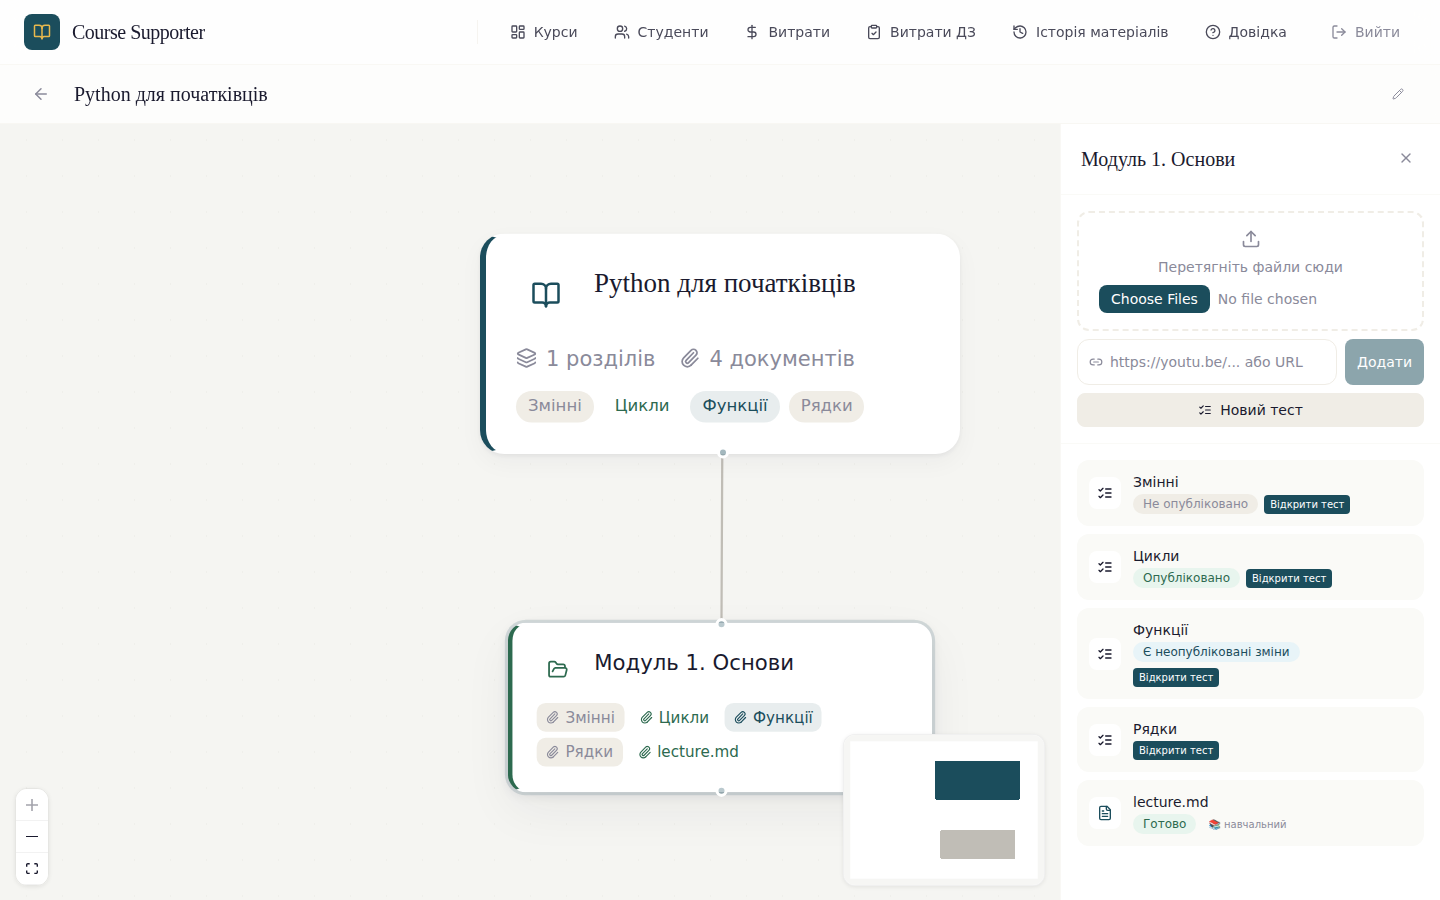
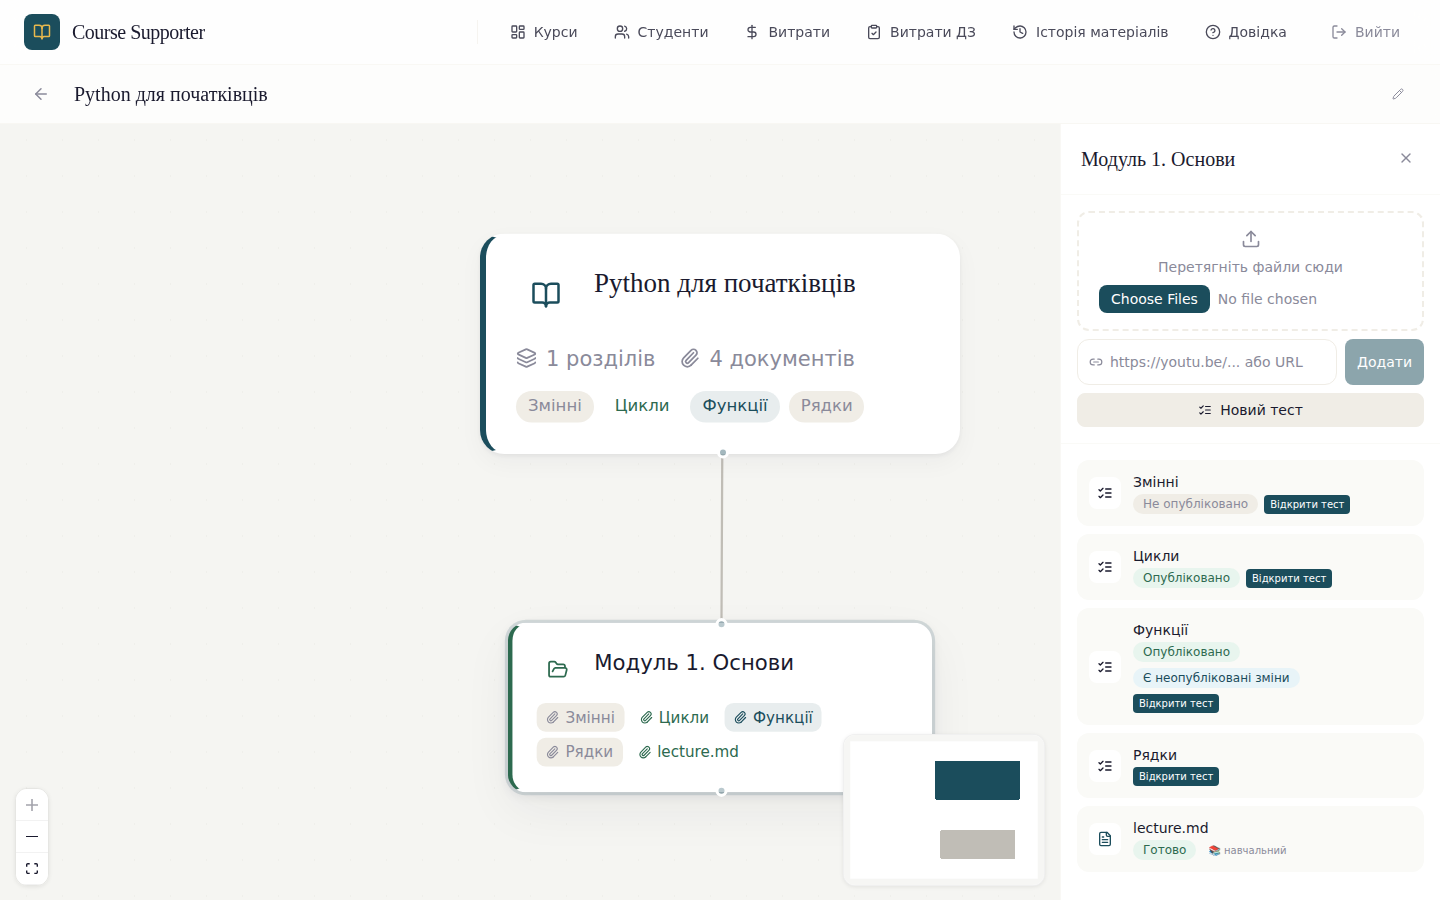
task(Б2): lower-case a test's state in the pill hint; show changed as two chips in the panel
Operator's decisions on the report of task Б2.

utils/stateVocabulary.ts: pillHint composes a canvas pill's hint,
«{name} — {state}», for both cards. A test's state is lower-cased there,
after the dash («Змінні — не опубліковано»); the words in editorTexts.ts
and on the chips keep their capital, and a material's phase word is kept
as it was («lecture.md — Готово»). testStateChips gives the node panel
the editor's chips in its order: changed is two, «Опубліковано» (forest)
and «Є неопубліковані зміни» (navy), as EditorToolbar shows it; the
canvas pill stays one.

CourseRootNode, SectionNode: the hint through pillHint.
NodeDetailPanel: every chip testStateChips gives, beside the test's name.

Tests: the lower-cased hints on both cards, a material's hint unchanged;
the panel's chips per state, in order, with their tones and hints;
pillHint and testStateChips as units. Mutation, over the full suite,
restored by sha256: one chip for changed in the panel -> the panel's
changed case and the chips' unit (2 tests).

docs-screens/tree-test-state/panel.png: retaken with the two chips.

Claude-Session: https://claude.ai/code/session_01QoixipEQgc4obxDnkxyH6V

Changed region(s): [[0.75, 0.7156, 0.9062, 0.9644]]

diff --git a/src/components/flow/NodeDetailPanel.test.tsx b/src/components/flow/NodeDetailPanel.test.tsx
@@ -323,27 +323,38 @@ describe('NodeDetailPanel — a test written in the system (task 07c)', () => {
     expect(navigateMock).toHaveBeenCalledWith('/test/test-1/edit')
   })
 
-  // Task Б2: beside the name, the editor's own chip for whether students see
-  // the test; nothing when the tree does not say.
+  // Task Б2: beside the name, the editor's own chips for whether students see
+  // the test, as its toolbar shows them — ``changed`` is two; capitalised as
+  // the editor writes them.
+  const EDITOR_WORDS = ['Не опубліковано', 'Опубліковано', 'Є неопубліковані зміни']
   it.each([
-    ['draft', 'Не опубліковано', 'bg-canvas-dark', undefined],
-    ['published', 'Опубліковано', 'bg-forest-pale', 'Студенти бачать цю версію тесту'],
+    ['draft', [['Не опубліковано', 'bg-canvas-dark', undefined]]],
+    ['published', [['Опубліковано', 'bg-forest-pale', 'Студенти бачать цю версію тесту']]],
     [
       'changed',
-      'Є неопубліковані зміни',
-      'bg-navy-pale',
-      'Чернетка відрізняється від версії, яку бачать студенти',
+      [
+        ['Опубліковано', 'bg-forest-pale', 'Студенти бачать цю версію тесту'],
+        [
+          'Є неопубліковані зміни',
+          'bg-navy-pale',
+          'Чернетка відрізняється від версії, яку бачать студенти',
+        ],
+      ],
     ],
-  ] as const)('shows a %s test as «%s» beside its name', (state, label, tone, hint) => {
+  ] as const)('shows a %s test with the editor\'s chips beside its name', (state, chips) => {
     seed(makeNode({ authored_documents: [makeTest({ test_state: state })] }))
     render(<NodeDetailPanel onOpenSummary={vi.fn()} />)
 
-    const chip = within(rowOf('Змінні')).getByText(label)
-    expect(chip).toHaveClass(tone)
-    if (hint === undefined) expect(chip).not.toHaveAttribute('title')
-    else expect(chip).toHaveAttribute('title', hint)
-    for (const other of ['Не опубліковано', 'Опубліковано', 'Є неопубліковані зміни']) {
-      if (other !== label) expect(within(rowOf('Змінні')).queryByText(other)).toBeNull()
+    const row = rowOf('Змінні')
+    const shown = within(row)
+      .queryAllByText((_, el) => EDITOR_WORDS.includes(el?.textContent ?? '') && el?.tagName === 'SPAN')
+      .map((el) => el.textContent)
+    expect(shown).toEqual(chips.map(([label]) => label))
+    for (const [label, tone, hint] of chips) {
+      const chip = within(row).getByText(label)
+      expect(chip).toHaveClass(tone)
+      if (hint === undefined) expect(chip).not.toHaveAttribute('title')
+      else expect(chip).toHaveAttribute('title', hint)
     }
   })
 

diff --git a/src/components/flow/NodeDetailPanel.tsx b/src/components/flow/NodeDetailPanel.tsx
@@ -6,7 +6,7 @@ import { documentsApi } from '../../api/documents'
 import { nodesApi } from '../../api/nodes'
 import { StatusBadge } from '../ui/StatusBadge'
 import { Chip } from '../testEditor/Chip'
-import { testStateVocab } from '../../utils/stateVocabulary'
+import { testStateChips } from '../../utils/stateVocabulary'
 import { MaterialProgressDetail } from './MaterialProgressDetail'
 import { UploadProgressView } from '../activity/UploadProgressView'
 import { UploadFailuresView } from '../activity/UploadFailuresView'
@@ -474,9 +474,10 @@ export function NodeDetailPanel({ onOpenSummary }: NodeDetailPanelProps = {}) {
             // A test is written, never processed: no phase to show, nothing
             // to reprocess, and its role is fixed (decisions 13 and 19).
             const isTest = mat.source_type === 'test_object'
-            // Б2: whether students see it — the editor's own chip; nothing
-            // when the tree does not say (an older backend, an unread state).
-            const testState = isTest ? testStateVocab(mat.test_state) : null
+            // Б2: whether students see it — the editor's own chips, as its
+            // toolbar shows them (``changed`` is two); none when the tree does
+            // not say (an older backend, an unread state).
+            const testChips = isTest ? testStateChips(mat.test_state) : []
             // Д1: the live job of THIS material from the shared store (anchor =
             // material_id). Its movement/duration is the same the strip shows.
             const liveJob = workItems.find(
@@ -501,11 +502,11 @@ export function NodeDetailPanel({ onOpenSummary }: NodeDetailPanelProps = {}) {
                       control drop to the next line instead of clipping. */}
                   <div className="flex flex-wrap items-center gap-1.5 mt-0.5">
                     {!isTest && <StatusBadge phase={mat.processing_phase} />}
-                    {testState && (
-                      <Chip tone={testState.chipTone} title={testState.hint}>
-                        {testState.label}
+                    {testChips.map((chip) => (
+                      <Chip key={chip.label} tone={chip.chipTone} title={chip.hint}>
+                        {chip.label}
                       </Chip>
-                    )}
+                    ))}
                     {!isTest && (
                       <button
                         onClick={() => handleToggleRole(mat)}

diff --git a/src/utils/stateVocabulary.ts b/src/utils/stateVocabulary.ts
@@ -93,6 +93,20 @@ export function testStateVocab(state: TestState | null | undefined): TestStateVo
   return (state && TEST_STATE_VOCAB[state]) || null
 }
 
+// The node panel shows a test's state as the editor's toolbar does: ``changed``
+// is two chips there — «Опубліковано» and «Є неопубліковані зміни» beside it —
+// so it is two in the panel too. The canvas pill has room for one (above).
+const TEST_STATE_CHIPS: Record<TestState, TestStateVocabEntry[]> = {
+  draft: [TEST_STATE_VOCAB.draft],
+  published: [TEST_STATE_VOCAB.published],
+  changed: [TEST_STATE_VOCAB.published, TEST_STATE_VOCAB.changed],
+}
+
+/** The editor's chips for a test's state, in its order; none when the tree does not say. */
+export function testStateChips(state: TestState | null | undefined): TestStateVocabEntry[] {
+  return (state && TEST_STATE_CHIPS[state]) || []
+}
+
 /** A canvas pill's word and tone: a test's publication state, any other material's phase. */
 export function pillVocab(document: {
   source_type: string
@@ -187,4 +201,23 @@ const JOB_STATE_WORD_TONE: Record<JobState, string> = {
 /** Work-state word classes (strip rows) — colour/motion on the word, never a chip. */
 export function jobStateWordClass(state: JobState): string {
   return JOB_STATE_WORD_TONE[state]
+}
+
+/**
+ * A canvas pill's hint: «{name} — {state}». A test's state is the editor's
+ * word, which stands capitalised on its own chip; after the dash it continues
+ * the sentence, so it is lower-cased here — the word in ``editorTexts`` stays
+ * as it is («Змінні — не опубліковано»). A material's phase word is kept as it
+ * was.
+ */
+export function pillHint(
+  document: { source_type: string },
+  name: string,
+  entry: PhaseVocabEntry,
+): string {
+  const state =
+    document.source_type === 'test_object'
+      ? entry.label.charAt(0).toLocaleLowerCase('uk') + entry.label.slice(1)
+      : entry.label
+  return `${name} — ${state}`
 }

diff --git a/src/components/flow/nodes/CourseRootNode.test.tsx b/src/components/flow/nodes/CourseRootNode.test.tsx
@@ -90,15 +90,34 @@ describe('CourseRootNode — a test\'s publication state', () => {
   }
 
   it.each([
-    ['draft', 'Змінні — Не опубліковано', ['bg-canvas-dark', 'text-ink-muted']],
-    ['published', 'Змінні — Опубліковано', ['text-forest']],
-    ['changed', 'Змінні — Є неопубліковані зміни', ['text-navy']],
+    ['draft', 'Змінні — не опубліковано', ['bg-canvas-dark', 'text-ink-muted']],
+    ['published', 'Змінні — опубліковано', ['text-forest']],
+    ['changed', 'Змінні — є неопубліковані зміни', ['text-navy']],
     [null, 'Змінні — тест', ['bg-canvas-dark', 'text-ink-muted']],
   ] as const)('marks a %s test: %s', (state, hint, classes) => {
     card({ authored_documents: [test(state)] })
     const pill = screen.getByText('Змінні')
     expect(pill).toHaveAttribute('title', hint)
     expect(pill).toHaveClass(...classes)
+  })
+
+  it('lower-cases the editor\'s word after the dash, and only a test\'s', () => {
+    const lecture: AuthoredDocumentSummary = {
+      ...test(),
+      id: 'doc-1',
+      source_type: 'text',
+      task_type: null,
+      title: null,
+      filename: 'lecture.md',
+      source_url: 's3://bucket/lecture.md',
+    }
+    card({ authored_documents: [test('changed'), lecture] })
+    expect(screen.getByText('Змінні')).toHaveAttribute(
+      'title',
+      'Змінні — є неопубліковані зміни',
+    )
+    // A material's phase word keeps its capital, as before.
+    expect(screen.getByText('lecture.md')).toHaveAttribute('title', 'lecture.md — Готово')
   })
 
   it('keeps the neutral pill when an older backend sends no test_state', () => {

diff --git a/src/components/flow/nodes/SectionNode.test.tsx b/src/components/flow/nodes/SectionNode.test.tsx
@@ -90,15 +90,34 @@ describe('SectionNode — a test\'s publication state', () => {
   }
 
   it.each([
-    ['draft', 'Змінні — Не опубліковано', ['bg-canvas-dark', 'text-ink-muted']],
-    ['published', 'Змінні — Опубліковано', ['text-forest']],
-    ['changed', 'Змінні — Є неопубліковані зміни', ['text-navy']],
+    ['draft', 'Змінні — не опубліковано', ['bg-canvas-dark', 'text-ink-muted']],
+    ['published', 'Змінні — опубліковано', ['text-forest']],
+    ['changed', 'Змінні — є неопубліковані зміни', ['text-navy']],
     [null, 'Змінні — тест', ['bg-canvas-dark', 'text-ink-muted']],
   ] as const)('marks a %s test: %s', (state, hint, classes) => {
     card({ authored_documents: [test(state)] })
     const pill = screen.getByText('Змінні')
     expect(pill).toHaveAttribute('title', hint)
     expect(pill).toHaveClass(...classes)
+  })
+
+  it('lower-cases the editor\'s word after the dash, and only a test\'s', () => {
+    const lecture: AuthoredDocumentSummary = {
+      ...test(),
+      id: 'doc-1',
+      source_type: 'text',
+      task_type: null,
+      title: null,
+      filename: 'lecture.md',
+      source_url: 's3://bucket/lecture.md',
+    }
+    card({ authored_documents: [test('changed'), lecture] })
+    expect(screen.getByText('Змінні')).toHaveAttribute(
+      'title',
+      'Змінні — є неопубліковані зміни',
+    )
+    // A material's phase word keeps its capital, as before.
+    expect(screen.getByText('lecture.md')).toHaveAttribute('title', 'lecture.md — Готово')
   })
 
   it('keeps the neutral pill when an older backend sends no test_state', () => {

diff --git a/src/utils/stateVocabulary.test.ts b/src/utils/stateVocabulary.test.ts
@@ -11,6 +11,8 @@ import {
   phasePillClass,
   jobStateWordClass,
   TEST_STATE_VOCAB,
+  pillHint,
+  testStateChips,
 } from './stateVocabulary'
 
 // Second witness for totality (mirrors the backend ``_JOB_STATE_BY_STATUS``
@@ -120,6 +122,36 @@ describe('pillVocab — a canvas pill', () => {
     expect(pillVocab({ source_type: 'text', processing_phase: 'ready' })).toBe(
       PHASE_VOCAB.ready,
     )
+  })
+})
+
+describe('a test in the tree — hint and panel chips (task Б2)', () => {
+  it('lower-cases a test state after the dash, leaving the editor\'s word as it is', () => {
+    const test = { source_type: 'test_object' }
+    expect(pillHint(test, 'Змінні', { label: TEXTS.notPublished, tone: 'muted', pulse: false })).toBe(
+      'Змінні — не опубліковано',
+    )
+    expect(TEXTS.notPublished).toBe('Не опубліковано')
+    expect(pillHint(test, 'Змінні', { label: 'тест', tone: 'muted', pulse: false })).toBe(
+      'Змінні — тест',
+    )
+  })
+
+  it('keeps a material\'s phase word as it was', () => {
+    expect(pillHint({ source_type: 'text' }, 'lecture.md', PHASE_VOCAB.ready)).toBe(
+      'lecture.md — Готово',
+    )
+  })
+
+  it('gives the panel the editor\'s chips: two for changed, none when the tree does not say', () => {
+    expect(testStateChips('draft')).toEqual([TEST_STATE_VOCAB.draft])
+    expect(testStateChips('published')).toEqual([TEST_STATE_VOCAB.published])
+    expect(testStateChips('changed')).toEqual([
+      TEST_STATE_VOCAB.published,
+      TEST_STATE_VOCAB.changed,
+    ])
+    expect(testStateChips(null)).toEqual([])
+    expect(testStateChips(undefined)).toEqual([])
   })
 })
 

diff --git a/src/components/flow/nodes/SectionNode.tsx b/src/components/flow/nodes/SectionNode.tsx
@@ -4,7 +4,7 @@ import { Handle, Position, type NodeProps } from '@xyflow/react'
 import { FolderOpen, Paperclip } from 'lucide-react'
 import type { FlowNodeData } from '../../../utils/treeToFlow'
 import { SummaryBadge } from '../SummaryBadge'
-import { pillVocab, phasePillClass } from '../../../utils/stateVocabulary'
+import { pillHint, pillVocab, phasePillClass } from '../../../utils/stateVocabulary'
 import { documentLabel } from '../../../utils/documentLabel'
 
 export const SectionNode = memo(function SectionNode({
@@ -87,7 +87,7 @@ export const SectionNode = memo(function SectionNode({
                   'inline-flex items-center gap-1 text-[10px] px-1.5 py-0.5 rounded-md font-medium',
                   phasePillClass(v),
                 )}
-                title={`${documentLabel(m)} — ${v.label}`}
+                title={pillHint(m, documentLabel(m), v)}
               >
                 <Paperclip size={9} />
                 {documentLabel(m).slice(0, 14)}

diff --git a/src/components/flow/nodes/CourseRootNode.tsx b/src/components/flow/nodes/CourseRootNode.tsx
@@ -4,7 +4,7 @@ import { Handle, Position, type NodeProps } from '@xyflow/react'
 import { BookOpen, Layers, Paperclip } from 'lucide-react'
 import type { FlowNodeData } from '../../../utils/treeToFlow'
 import { SummaryBadge } from '../SummaryBadge'
-import { pillVocab, phasePillClass } from '../../../utils/stateVocabulary'
+import { pillHint, pillVocab, phasePillClass } from '../../../utils/stateVocabulary'
 import { documentLabel } from '../../../utils/documentLabel'
 
 export const CourseRootNode = memo(function CourseRootNode({
@@ -73,7 +73,7 @@ export const CourseRootNode = memo(function CourseRootNode({
                   'text-[11px] px-2 py-0.5 rounded-full font-medium',
                   phasePillClass(v),
                 )}
-                title={`${documentLabel(m)} — ${v.label}`}
+                title={pillHint(m, documentLabel(m), v)}
               >
                 {documentLabel(m).slice(0, 18)}
               </span>
